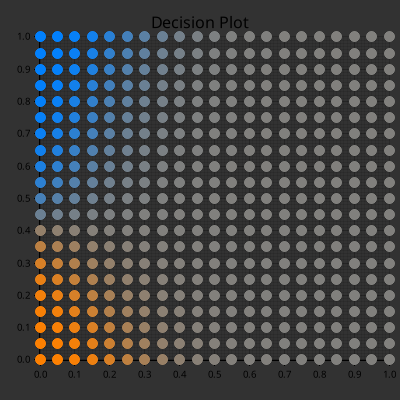
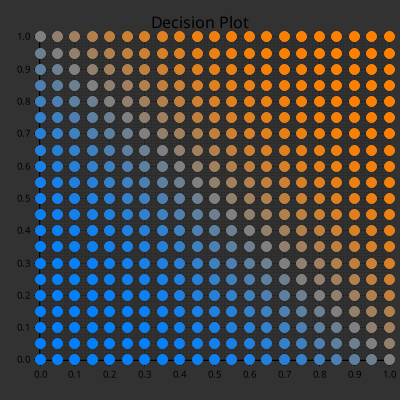
solved the infamous "xor on a single perceptron" problem

Changed region(s): [[0.09, 0.06, 0.99, 0.84], [0.09, 0.39, 0.9, 0.93]]

diff --git a/src/main.rs b/src/main.rs
@@ -212,7 +212,7 @@ fn plot_decision(net: &Network) -> Result<(), Box<dyn std::error::Error>> {
 
 fn main() {
     let mut net = Network::new(0.5);
-    net.add_layer(Layer::new(2, 2, Activation::Sigmoid)); // output layer: 1 neuron
+    // net.add_layer(Layer::new(2, 2, Activation::Sigmoid)); // output layer: 1 neuron
     net.add_layer(Layer::new(1, 2, Activation::Sigmoid)); // output layer: 1 neuron
 
         // matrix example
@@ -226,9 +226,9 @@ fn main() {
 
         // XOR example
     let training_data = vec![
-        (vec![0.0, 0.0], vec![1.0]),
-        (vec![0.0, 1.0], vec![0.0]),
-        (vec![1.0, 0.0], vec![0.0]),
+        (vec![0.0, 0.0], vec![0.0]),
+        (vec![0.0, 1.0], vec![0.5]),
+        (vec![1.0, 0.0], vec![0.5]),
         (vec![1.0, 1.0], vec![1.0]),
     ];
 
@@ -249,6 +249,18 @@ fn main() {
     for (inputs, _) in &training_data {
         let output = net.forward(inputs.clone());
         println!("{:?} -> {:?}", inputs, output);
+    }
+    println!("mapped predictions:");
+    let zero_range = 0.33..0.66;
+    let mut mapped_output;
+    for (inputs, _) in &training_data {
+        let output = net.forward(inputs.clone())[0];
+        if zero_range.contains(&output) {
+            mapped_output = 1;
+        } else {
+            mapped_output = 0;
+        }
+        println!("{:?} -> {:?}", inputs, mapped_output);
     }
 plot_decision(&net).unwrap();
 
